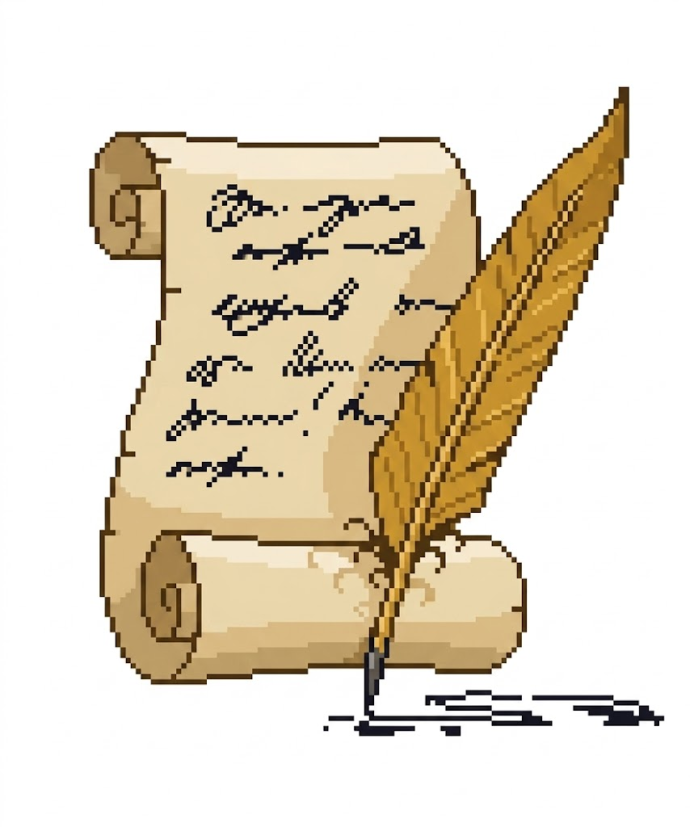
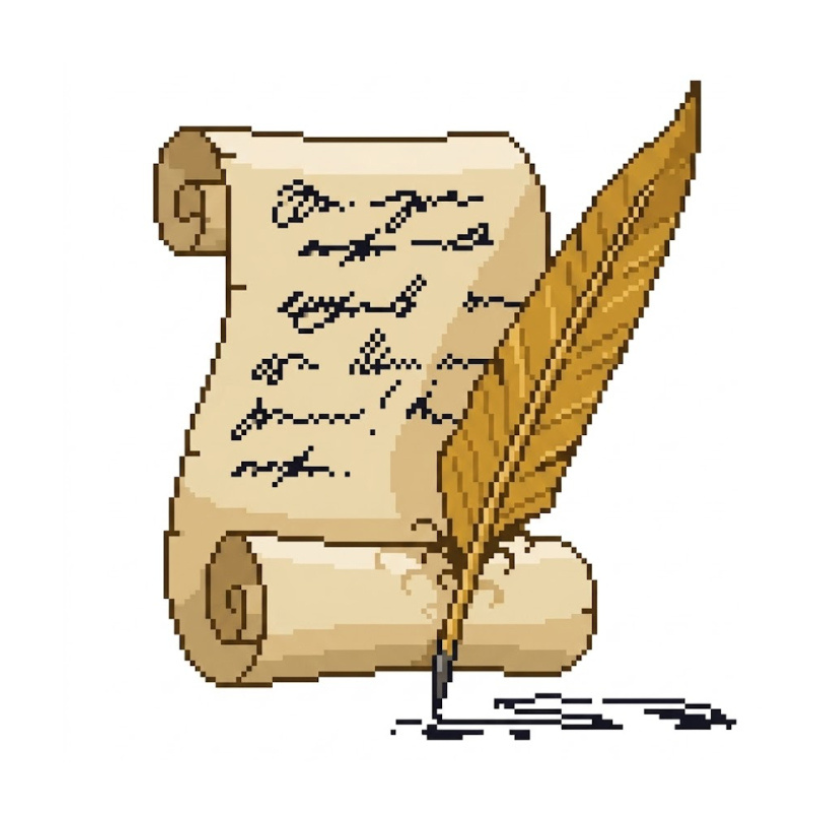
Retoques finais

Changed region(s): [[0.1217, 0.0909, 0.9739, 0.9091], [0.4565, 0.5455, 0.487, 0.6061]]

diff --git a/css arq/logona.css b/css arq/logona.css
@@ -17,19 +17,21 @@ z-index: 1;
 -webkit-user-drag: none;
 }
 
+
+
 .logotexto{
+    display: flex;
+    text-align: center;
     color: rgb(255, 255, 255);
-    font-size: 3.8rem;
+
+
+    color: white;
+    font-size: 6rem;
+    font-family: "Jersey 10", sans-serif;
+    font-weight: 400;
+    text-shadow: 2px 2px 8px rgb(0, 0, 0);
+
     z-index: 2;
-    text-decoration: underline;
-    user-select: none;
-   text-shadow: 2px 2px 8px rgb(0, 0, 0);
-}
-.logotexto2{
-    color: rgb(255, 255, 255);
-    font-size: 3.8rem;
-    z-index: 2;
-    text-shadow: 2px 2px 8px rgb(0, 0, 0); 
     text-decoration: underline;
     user-select: none;
   

diff --git a/index.html b/index.html
@@ -52,8 +52,7 @@
 
 <section class="fundoprincipal">
     <div class="atras"><img src="imagens/banner1.jpg" alt="" class="imagemprincipal"></div>
-    <h1 class="logotexto">Alimentando o amor pelos jogos desde 1981</h1>
-    <h1 class="logotexto2">Buscando felicidade através das telas </h1>
+    <h1 class="logotexto">O sabor das Pac-Massas, com gostinho dos anos 90 <br>e uma experiência de outro universo!</h1>
 </section>
 
 <section class="Valors" id="valores">
@@ -96,7 +95,7 @@
   <div class="instagram"><h1>Instagram</h1> <p>@PizzaPixel</p></div>
   <div class="sobrenos"><h1>Sobre nós</h1> <p>Unimos pizza, jogos e nostalgia em uma experiência divertida.</p></div>
   <div class="feedback"><h1>Feedback</h1> <p>Nos diga o que você achou dos nossos serviços!</p></div>
-  <div class="antigo"><h1>Veja como nós éramos!</h1> <a href="https://donutjerk.com" target="_blank" rel="noopener noreferrer"><p>Clique aqui!</p></a></div>
+  <div class="antigo"><h1>Veja como nós éramos!</h1> <a href="https://www.pizzajerkpdx.com/" target="_blank" rel="noopener noreferrer"><p>Clique aqui!</p></a></div>
   <div class="seta"><img src="imagens/seta.png" alt="" class="segredo"></div>
 </footer>
 

diff --git a/css log/login.css b/css log/login.css
@@ -24,11 +24,11 @@ html{
     width: 40rem;
     display: flex;
     align-items: center;
-    justify-content: center;
+    
 }
 
 .FotoLogin img{
-    width: 32rem;
+    width: 45rem;
 }
 
 .FormularioLogin{

diff --git a/login.html b/login.html
@@ -46,7 +46,7 @@
 <section class="FundoLogin">
     <div class="CaixaLogin">
         <div class="FotoLogin">
-            <img src="imagens/fotologin.png" alt="">
+            <img src="imagens/ghost.png" alt="">
         </div>
 
         <div class="FormularioLogin">